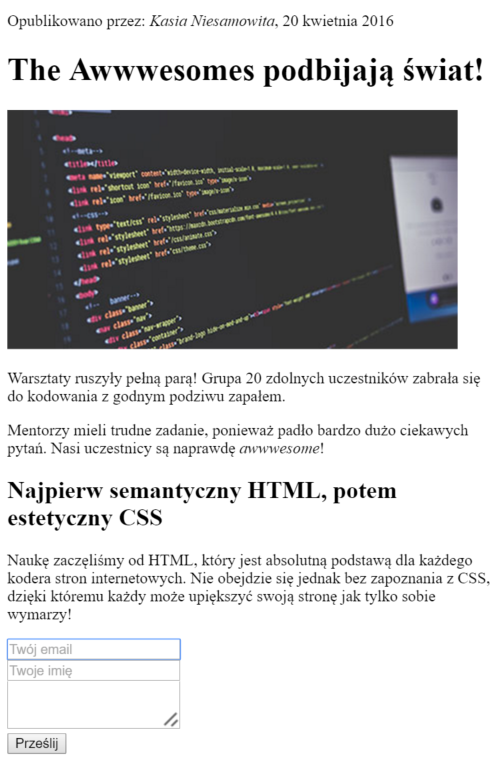
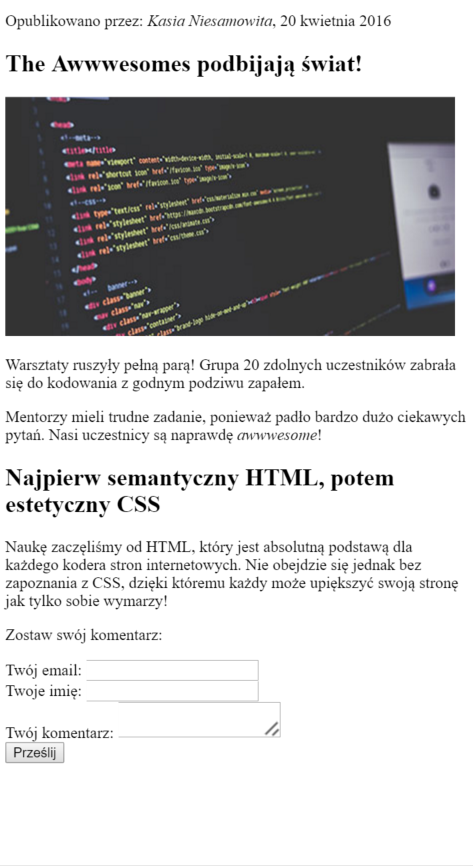
Style fixes

diff --git a/pl/styles/website.css b/pl/styles/website.css
@@ -15,10 +15,18 @@ a:hover {
     text-decoration: none !important;
 }
 
-
-.book .book-body .page-wrapper .page-inner section.normal h2 {
+.book .book-body .page-wrapper .page-inner section.normal h1,
+.book .book-body .page-wrapper .page-inner section.normal h2,
+.book .book-body .page-wrapper .page-inner section.normal h3,
+.book .book-body .page-wrapper .page-inner section.normal h4,
+.book .book-body .page-wrapper .page-inner section.normal h5,
+.book .book-body .page-wrapper .page-inner section.normal h6 {
     font-size: 1.75em;
     color: #f06969;
+}
+ 
+.book .book-body .page-wrapper .page-inner section.normal h3.panel-title {
+  color: #ffffff;
 }
 
 .panel-success {

diff --git a/pl/webpage/README.md b/pl/webpage/README.md
@@ -65,7 +65,7 @@ Dowiedzieliśmy się już, że język HTML służy do opisu treści stron intern
 
 ### Język CSS
 
-Język CSS różni się znacznie w zapisie od HTML. HTML pozwala nam stworzyć treść strony, natomiast CSS to lista reguł opisujących w jaki sposób jej elementy mają zostać wyświetlony przez przeglądarkę. 
+Język CSS różni się znacznie w zapisie od HTML. HTML pozwala nam stworzyć treść strony, natomiast CSS to lista reguł opisujących w jaki sposób jej elementy mają zostać wyświetlone przez przeglądarkę. 
 
 Składnia CSS operuje na **selektorach**. Za pomocą selektorów wybieramy elementy strony, którym chcemy nadać określony wygląd. Kod zapisuje się w sposób:
 
